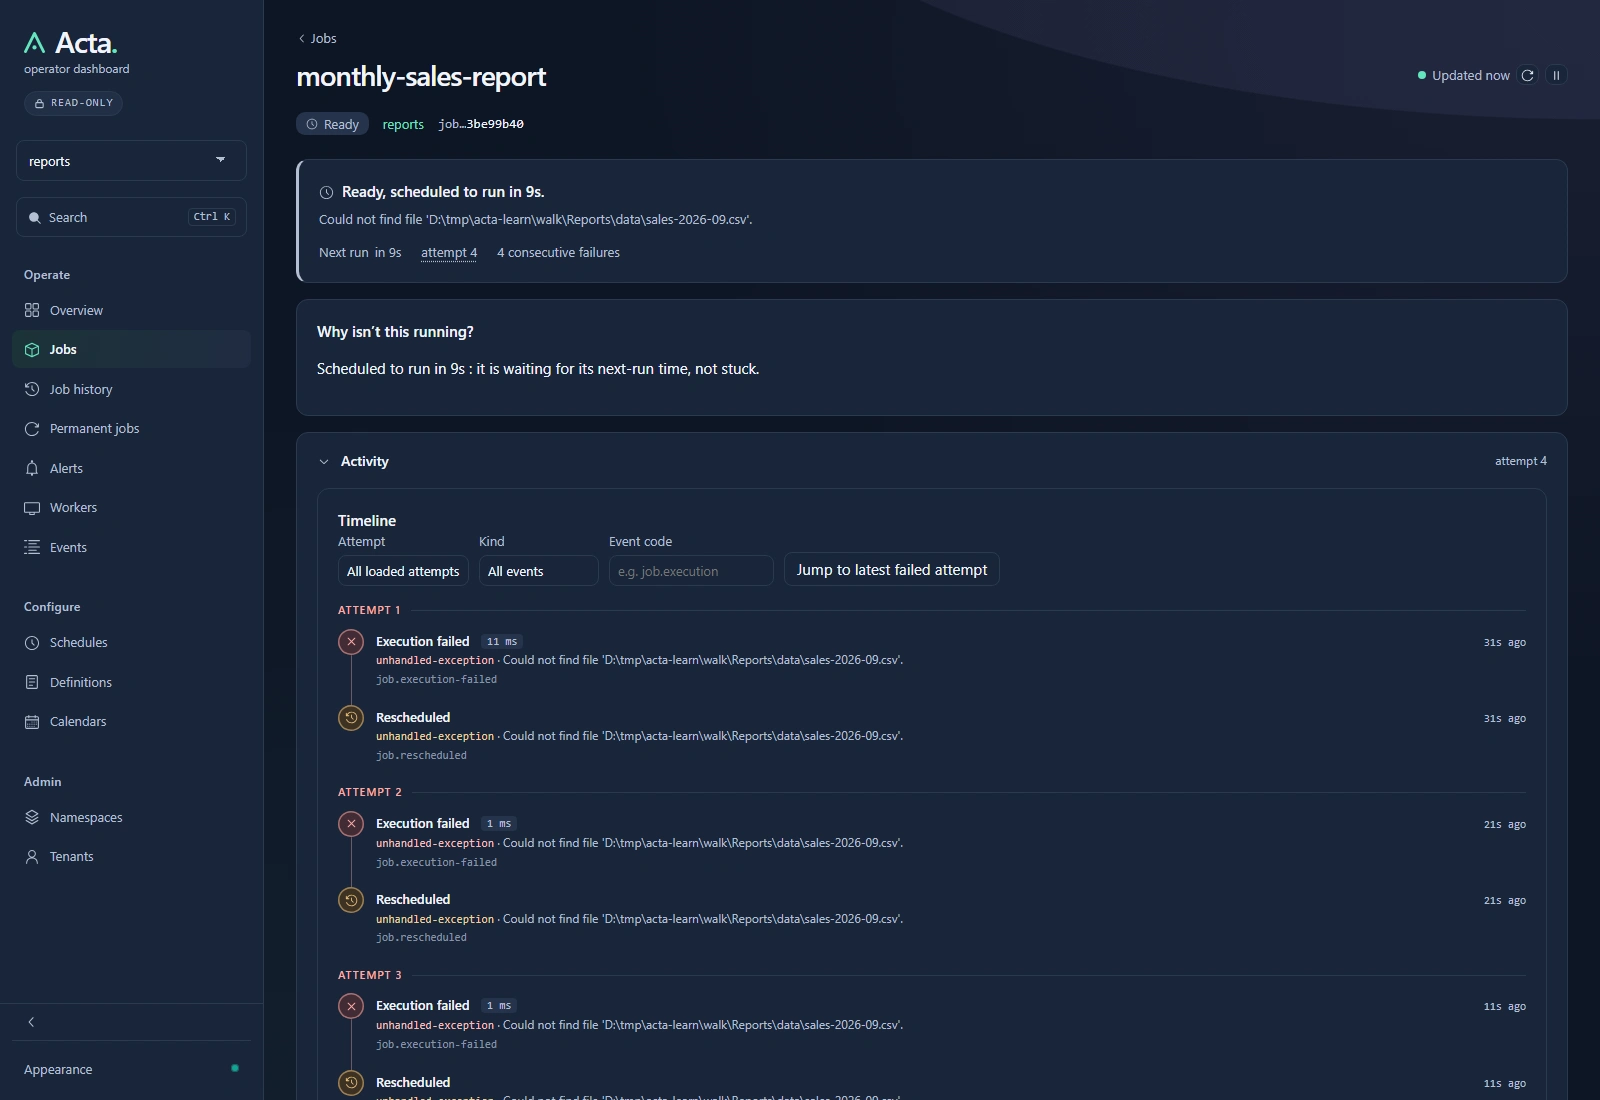
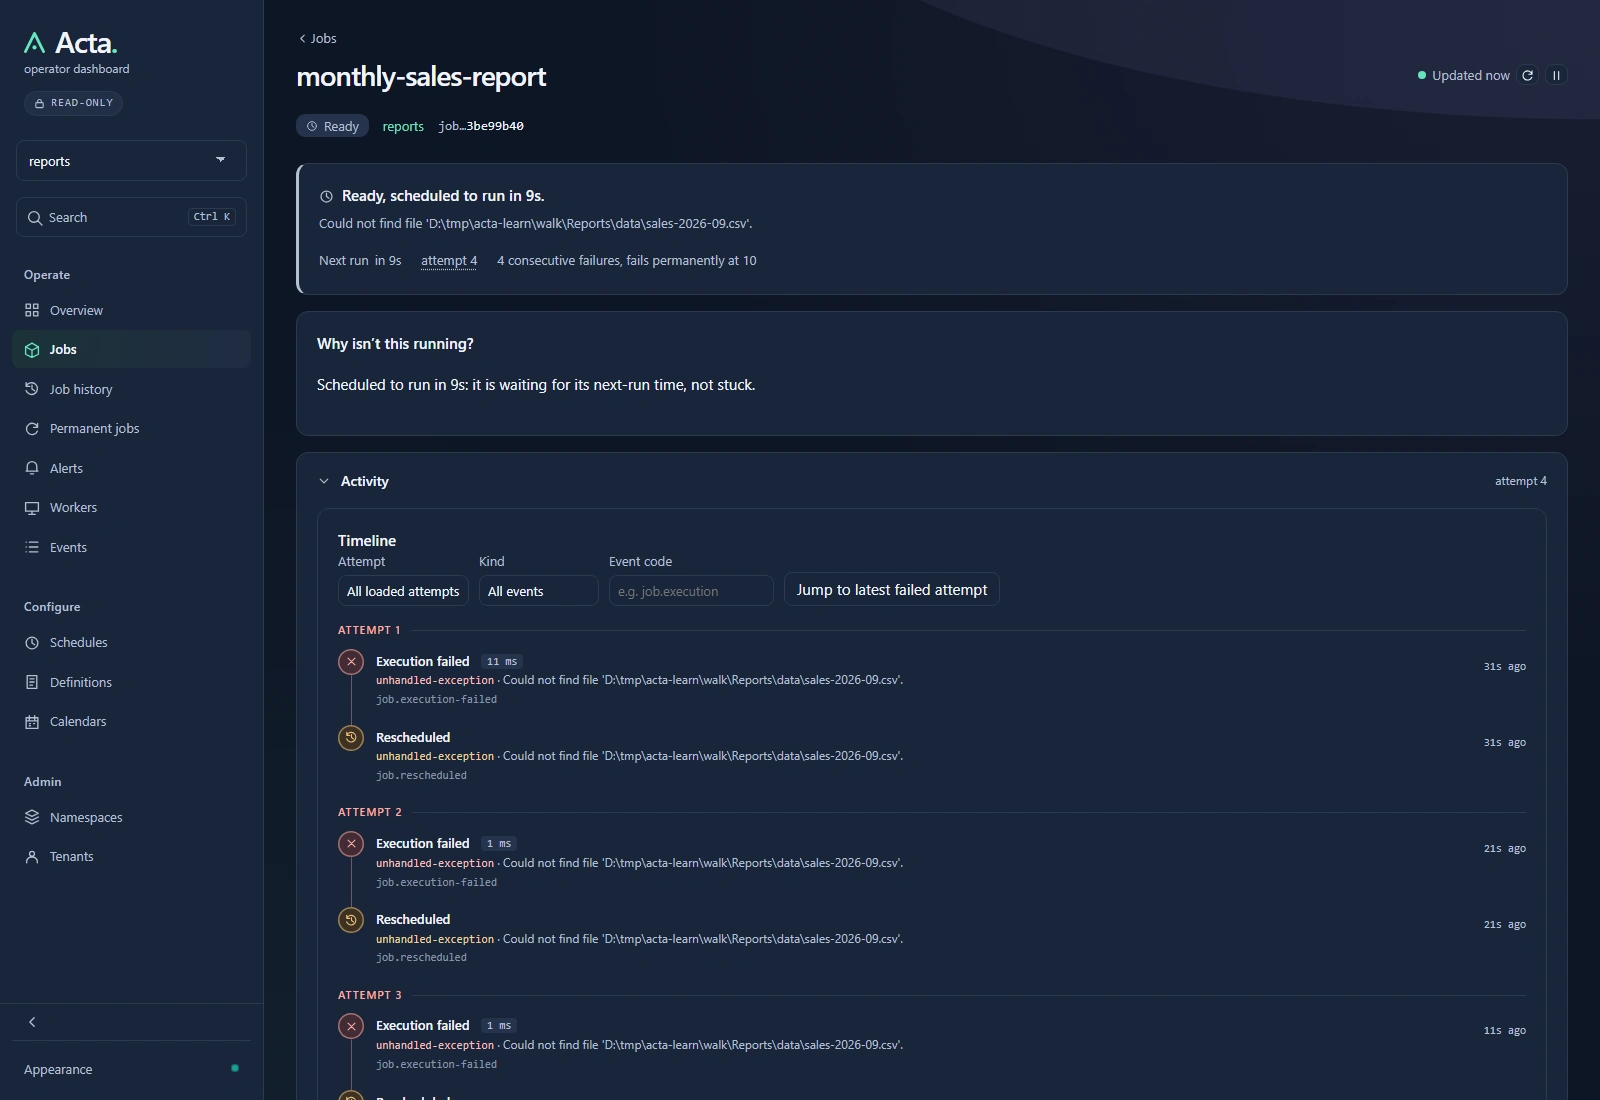
Match the site and docs to the new dashboard
The dashboard screenshots are captured again from the final build with
the server's own wording. The Learn walkthrough, the capabilities row,
the operator guide, and the naming rule describe the job page as it
now is: no tabs, the result under the status, and Activity and
Technical details as disclosures.

diff --git a/site/learn.html b/site/learn.html
@@ -430,7 +430,7 @@ Total:  5,426.50
           <figcaption>The Jobs page after the first report. The two System jobs are Acta's own housekeeping.</figcaption>
         </figure>
         <p>The rows marked System are jobs Acta registers in every namespace. <code>sys.alerts</code> turns failures into alert records, and <code>sys.retention</code> deletes finished jobs after their retention period, 90 days by default. They are ordinary jobs, stored and scheduled the same way as yours.</p>
-        <p>Click your report's ref. The detail page shows the job's name, namespace, and status, an Attempts line reading "1 started, 0 consecutive failures", and a timeline with one event: the completion, tagged with the few milliseconds the handler took. The Details view shows the stored input and result JSON beside the status. The Actions panel says "Job controls are disabled on this host", and the sidebar shows a READ-ONLY badge: that is the safe default mentioned earlier, not an error. Every screen in the dashboard is a view of rows in <code>reports.db</code>. Nothing here is kept in the browser or in a separate service.</p>
+        <p>Click your report's ref. The job's page leads with its name, a Succeeded badge, its namespace, a short form of its ref, and "attempt 1", with the result JSON right below. Open Activity for the timeline, which holds one event: the completion, tagged with the few milliseconds the handler took. Stored data holds the input. The page has no Actions menu, and the sidebar shows a READ-ONLY badge: that is the safe default mentioned earlier, not an error. Every screen in the dashboard is a view of rows in <code>reports.db</code>. Nothing here is kept in the browser or in a separate service.</p>
         <aside class="callout" aria-label="Sidebar: the same facts from the terminal">
           <h3>The same facts, from the terminal</h3>
           <p>An application that uses Acta also answers a small set of <code>jobs</code> commands. Run the app a second time with <code>--no-build</code>, so the command does not try to rebuild files the running copy is using: <code>dotnet run --no-build -- jobs events &lt;job-ref&gt;</code> prints the timeline, and <code>jobs explain &lt;job-ref&gt;</code> describes the job's state in plain English. The command reads the database and exits without starting the web server or a worker. You will use it in a moment.</p>
@@ -452,10 +452,10 @@ Total:  5,426.50
         </figure>
         <p>Terminal 1 now shows the handler starting, a warning with the <code>FileNotFoundException</code> and its stack trace, and a line saying the job was re-armed. Ten seconds later the same thing happens with <code>execution 2</code>, then <code>execution 3</code>. Open the job in the dashboard:</p>
         <figure class="shot">
-          <a href="assets/learn-retrying.webp" title="Open the full-size screenshot"><img src="assets/learn-retrying.webp" width="1600" height="1100" loading="lazy" alt="The dashboard's detail page for the September job. The header reads Ready, scheduled to run in 9s, with the message Could not find file and the path of sales-2026-09.csv. The summary shows Status Ready, Next run in 9s, and Attempts: 4 started, 4 consecutive failures, fails permanently at 10." /></a>
+          <a href="assets/learn-retrying.webp" title="Open the full-size screenshot"><img src="assets/learn-retrying.webp" width="1600" height="1100" loading="lazy" alt="The dashboard's page for the September job. Its status reads Ready, scheduled to run in 9s, with the message Could not find file and the path of sales-2026-09.csv, then Next run in 9s, attempt 4, and 4 consecutive failures, fails permanently at 10. The Activity timeline below lists each failed attempt and its reschedule." /></a>
           <figcaption>The September job between attempts. Ready, with a next-run time, is how a waiting retry looks.</figcaption>
         </figure>
-        <p>This is the page to learn to read. Ready with a next-run time means "waiting for the next attempt", not "stuck". The reason is the stored exception message, and "4 started, 4 consecutive failures (fails permanently at 10)" says exactly how much patience is left. Further down, the timeline lists every attempt. The terminal tells the same story:</p>
+        <p>This is the page to learn to read. Ready with a next-run time means "waiting for the next attempt", not "stuck". The reason is the stored exception message, and "attempt 4" with "4 consecutive failures, fails permanently at 10" says exactly how much patience is left. Under Activity, the timeline lists every attempt. The terminal tells the same story:</p>
         <figure class="listing">
           <figcaption><span class="note">Terminal 2, with your September job ref</span><button class="copy" type="button" aria-label="Copy the events command">Copy</button></figcaption>
           <pre><code>dotnet run --no-build -- jobs events job_01a0de39d88773688d0471583be99b40 --take 2</code></pre>
@@ -659,10 +659,10 @@ info: Reports.SalesReportJobs[0]
         </figure>
         <p>Look at what is there and what is missing. It is the same job ref as before the crash. It says <code>execution 2</code>, because the handler was started again from its first line: the opening log statement ran a second time. The <code>loading sales</code> line did not appear, because <code>load-sales</code> had a recorded result, and <code>RunStepAsync</code> returned it instead of reading the CSV again. <code>write-report</code> had no recorded outcome, so it ran in full, pause included, and wrote the file. In our run the app came back a few seconds after 15:01 UTC, just missing that minute's recovery pass; the 15:02 pass reclaimed the job, and the report was written fifteen seconds later.</p>
         <figure class="shot">
-          <a href="assets/learn-recovered.webp" title="Open the full-size screenshot"><img src="assets/learn-recovered.webp" width="1600" height="1070" loading="lazy" alt="The dashboard's Executions tab for the recovered job. Execution 2 succeeded in about 15 seconds on one worker. Execution 1, on a different worker, is marked Orphaned with the reason lease-expired: Worker lease expired; reclaimed by crash recovery." /></a>
+          <a href="assets/learn-recovered.webp" title="Open the full-size screenshot"><img src="assets/learn-recovered.webp" width="1600" height="1070" loading="lazy" alt="The dashboard's page for the recovered job, with Executions open under Activity. Execution 2 succeeded in about 15 seconds on one worker. Execution 1, on a different worker, is marked Orphaned with the reason lease-expired: Worker lease expired; reclaimed by crash recovery." /></a>
           <figcaption>One job, two executions on two different worker processes. The first was orphaned by the kill and reclaimed by crash recovery.</figcaption>
         </figure>
-        <p>The Executions tab tells the story in two rows, each with its own worker ref, because every run of the application registers as a new worker. The Details tab lists both steps as "succeeded and will not rerun", and the failure count is 1: an attempt lost to a dead process counts against the retry budget like any other failed attempt.</p>
+        <p>Executions, under Activity, tells the story in two rows, each with its own worker ref, because every run of the application registers as a new worker. Technical details lists both steps as "succeeded and will not rerun", and its recorded failures read 1 consecutive failure: an attempt lost to a dead process counts against the retry budget like any other failed attempt.</p>
         <p>Now remove the <code>Task.Delay</code> line and its comment from <code>write-report</code>. Its work is done.</p>
       </section>
 

diff --git a/site/capabilities.html b/site/capabilities.html
@@ -166,7 +166,7 @@
         <div class="ref-row" id="ledger"><dt>An append-only event ledger</dt><dd><p>At the recording level the job chose, each attempt's outcome and each control writes an event with its reason: succeeded, failed with the message, retried, reclaimed after a crash, cancelled by whom, admitted by which schedule. The ledger is the audit trail and the answer to why a job is where it is.</p><span class="api"><b>events</b> · <b>JobEventsRetention</b> · <a href="https://github.com/acta-dotnet/acta/blob/main/docs/reference/code-families.md">every code and reason</a></span></dd></div>
         <div class="ref-row" id="logs"><dt>Job identifiers in your logs</dt><dd><p>Every log line written during an attempt, your handler's lines included, carries the job id, the job name, the namespace, the execution number, the worker id, and the correlation key when there is one. A log search finds everything one job did, and Acta itself logs failures and rare events, never a line per successful job.</p><span class="api"><b>ActaJobId</b> · <b>ActaJobName</b> · <b>ActaCorrelationKey</b> · <a href="https://github.com/acta-dotnet/acta/blob/main/docs/operator-guide.md#logs">logs</a></span></dd></div>
         <div class="ref-row" id="metrics"><dt>Built-in metrics</dt><dd><p>One .NET meter carries the numbers an operator watches, each tagged by namespace. Jobs in flight, how far behind an occurrence was when it was admitted, how late a firing started, how much lease an attempt had left when it renewed, how far the alert projector stood behind, and how many attempts were stopped by a lost lease. Any OpenTelemetry exporter picks them up.</p><span class="api"><b>Meter "Acta"</b> · <b>acta.jobs.inflight</b> · <b>acta.schedule.lag</b> · <b>acta.lease.headroom</b> · <b>acta.alerts.lag</b> · <a href="https://github.com/acta-dotnet/acta/blob/main/docs/release-notes.md">release notes</a></span></dd></div>
-        <div class="ref-row" id="dashboard"><dt>The embedded dashboard</dt><dd><p>One package adds a dashboard to your own app, with the built interface inside it and nothing to install. Its pages: an overview with a health verdict, jobs and their history, permanent jobs and schedules, alerts, workers with heartbeats, events, definitions, namespaces, tenants, calendars, and the outbox, plus an Explain panel and an enqueue form built from each job's input contract. It reads the same rows you can query. It is local-only by default, controls are off until you enable them, and exposing it without configuring authorization refuses to start.</p><span class="api"><b>Acta.Dashboard</b> · <b>app.MapActa("/acta")</b> · <b>EnableControls</b> · <a href="https://github.com/acta-dotnet/acta/blob/main/docs/operator-guide.md#http-api-and-dashboard">HTTP API and dashboard</a></span></dd></div>
+        <div class="ref-row" id="dashboard"><dt>The embedded dashboard</dt><dd><p>One package adds a dashboard to your own app, with the built interface inside it and nothing to install. Its pages: an overview with a health verdict, jobs and their history, permanent jobs and schedules, alerts, workers with heartbeats, events, definitions, namespaces, tenants, calendars, and the outbox, plus a page for every job that opens with its state and next action, and an enqueue form built from each job's input contract. It reads the same rows you can query. It is local-only by default, controls are off until you enable them, and exposing it without configuring authorization refuses to start.</p><span class="api"><b>Acta.Dashboard</b> · <b>app.MapActa("/acta")</b> · <b>EnableControls</b> · <a href="https://github.com/acta-dotnet/acta/blob/main/docs/operator-guide.md#http-api-and-dashboard">HTTP API and dashboard</a></span></dd></div>
         <div class="ref-row" id="http-api"><dt>An HTTP API with an OpenAPI document</dt><dd><p>The dashboard's API is yours too, and it mounts without the interface. Enqueue a job, amend its input, raise a signal, run every control verb, read jobs by ref or by deduplication key, and page lists by cursor; a capabilities endpoint says what is enabled so a client hides the rest. A control request passes only with a confirmation header, a JSON body, or a bearer token, which no cross-site form can send, and every route is in the published OpenAPI document.</p><span class="api"><b>Acta.AspNetCore</b> · <b>/acta/api/v1/jobs/{jobRef}</b> · <b>MapActaApi</b> · <b>X-Acta-Control</b> · <a href="https://github.com/acta-dotnet/acta/blob/main/docs/reference/openapi.json">openapi.json</a></span></dd></div>
         <div class="ref-row" id="verbs"><dt>Control verbs</dt><dd><p>Cancel, pause, resume, restart, reschedule, reprioritize, raise a signal, amend the input, and purge, from code, the API, the CLI, or the dashboard. Every verb answers applied, rejected, or not found instead of throwing, and stamps the actor and the reason into the ledger. Cancel, pause, resume, restart, reschedule, and reprioritize take the version you read, so a row that moved underneath you is not overwritten, and cancelling a parent cancels its unfinished children.</p><span class="api"><b>IJobs</b> · <b>expectedVersion</b> · <a href="https://github.com/acta-dotnet/acta/blob/main/docs/operator-guide.md#control-verbs">control verbs</a></span></dd></div>
         <div class="ref-row" id="cli"><dt>A control CLI in every host</dt><dd><p>Your worker binary is the admin tool: it runs a verb against the database and exits, starting no worker. Apply the schema from a deploy step, explain a job, read its status, result, info, or events, pause, resume, cancel, or restart it, raise a signal, or run exactly one job in this process under your debugger with a breakpoint in the handler. A control names its job by ref or key, and a read also takes an id or the clipboard; output is text or JSON; exit codes are documented.</p><span class="api"><b>app jobs migrate</b> · <b>app jobs explain</b> · <b>app jobs debug --break</b> · <b>--json</b> · <a href="https://github.com/acta-dotnet/acta/blob/main/docs/operator-guide.md#built-in-control-cli">the control CLI</a></span></dd></div>

diff --git a/docs/operator-guide.md b/docs/operator-guide.md
@@ -834,7 +834,7 @@ w.AddAlertChannel("ops-slack", AlertTransportKinds.SlackWebhook,
 ## What happens if…
 
 Failure-mode answers for operators and handler authors. Start a single-job investigation with
-`<app> jobs explain <job-ref>` or the dashboard Explain panel; use this page to understand the
+`<app> jobs explain <job-ref>` or the job's page in the dashboard; use this page to understand the
 expected transition and the application responsibility behind it.
 
 ### …a worker crashes before starting the handler?
@@ -1010,7 +1010,7 @@ the same `jobs_state` / lease / worker / checkpoint / step / event rows the chec
 one consistent snapshot, and states in plain English where the work is, why it moved there, and the
 next action (raise a signal, wait for crash recovery, resume, restart, or inspect the timeline). The
 manual checks below are for triaging many jobs at once, confirming what `explain` reports, or when
-you only have SQL access. The dashboard's per-job Explain panel renders the same account.
+you only have SQL access. A job's page in the dashboard opens with the same account.
 
 `jobs explain` diagnoses Acta's durable state. It can tell you which steps completed, which
 wait is active, what the latest recorded reason was, and what operator actions are available. It

diff --git a/CONTRIBUTING.md b/CONTRIBUTING.md
@@ -424,7 +424,7 @@ Server scopes constraint names and PostgreSQL index names to the schema, not the
   worker holds; that layering is the rule.
 - **`run` is the verb, `execution` is the noun.** You run a step (`RunStepAsync`,
   `RunWithLockAsync`, `builder.Run`, `RunAndWaitAsync`); the ledger records an execution
-  (`ExecutionNumber`, `ExecutionStatusCode`, the Executions tab), with `attempt` as the retry-ledger
+  (`ExecutionNumber`, `ExecutionStatusCode`, the dashboard's Executions list), with `attempt` as the retry-ledger
   synonym. "Run" never appears as a product noun. `NextRunAtUtc` stays: it is the verb phrase "next
   runs at". Anvil's certification "run" is internal-tool jargon, out of band.
 - **`pause` stops a runnable thing's progress; `suspend` closes admission of new work.** This is
